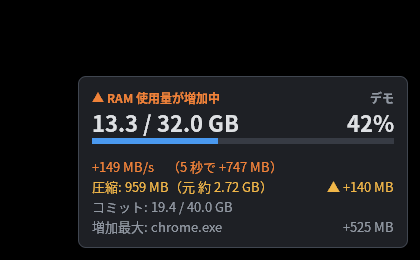
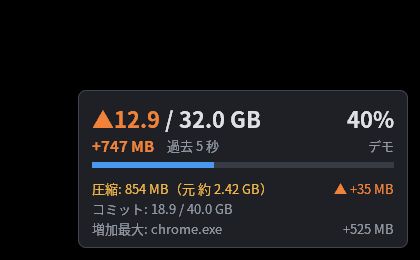
RamRiseBalloon v0.2.0: drop heading, ▲used/total with orange while rising, 5s signed delta below (plus = orange)

diff --git a/ramrise.c b/ramrise.c
@@ -1,5 +1,5 @@
 /*
- * RamRiseBalloon (ram-rise-balloon) v0.1.0
+ * RamRiseBalloon (ram-rise-balloon) v0.2.0
  * RAM 使用量が増えている間だけ、画面右下に使用量のバルーンを出す常駐アプリ (Windows 10/11 x64)。
  * メモリ圧縮 (Memory Compression) の量も監視し、圧縮が増えているときもバルーンを出す。
  *
@@ -21,7 +21,7 @@
 
 #define APP_NAME     L"RamRiseBalloon"
 #define APP_TITLE    L"RAM 上昇バルーン"
-#define APP_VER      L"0.1.0"
+#define APP_VER      L"0.2.0"
 #define INI_NAME     L"RamRiseBalloon.ini"
 #define MUTEX_NAME   L"Local\\zmlworks.RamRiseBalloon"
 #define RUN_KEY      L"Software\\Microsoft\\Windows\\CurrentVersion\\Run"
@@ -435,7 +435,7 @@ static NOTIFYICONDATAW gNid;
 static int gPaused;
 static int gWinSamples;     /* 窓のサンプル数 */
 static int gRamRise, gCompRise;
-static double gDeltaUsed, gDeltaComp, gRate;
+static double gDeltaUsed, gDeltaComp;
 static int gQuiet;          /* 増加していないサンプルが続いた数 */
 static int gHold;           /* HoldSec をサンプル数にしたもの */
 static int gDismissed;      /* クリックで閉じた → 今回の増加が終わるまで出さない */
@@ -504,7 +504,7 @@ static void MakeFonts(UINT dpi)
     if (gFHead) DeleteObject(gFHead);
     gFSmall = CreateFontW(-MulDiv(13, (int)dpi, 96), 0, 0, 0, FW_NORMAL, 0, 0, 0, DEFAULT_CHARSET,
                           OUT_DEFAULT_PRECIS, CLIP_DEFAULT_PRECIS, CLEARTYPE_QUALITY, DEFAULT_PITCH, L"Yu Gothic UI");
-    gFHead = CreateFontW(-MulDiv(12, (int)dpi, 96), 0, 0, 0, FW_BOLD, 0, 0, 0, DEFAULT_CHARSET,
+    gFHead = CreateFontW(-MulDiv(15, (int)dpi, 96), 0, 0, 0, FW_SEMIBOLD, 0, 0, 0, DEFAULT_CHARSET,
                          OUT_DEFAULT_PRECIS, CLIP_DEFAULT_PRECIS, CLEARTYPE_QUALITY, DEFAULT_PITCH, L"Yu Gothic UI");
     gFBig = CreateFontW(-MulDiv(22, (int)dpi, 96), 0, 0, 0, FW_SEMIBOLD, 0, 0, 0, DEFAULT_CHARSET,
                         OUT_DEFAULT_PRECIS, CLIP_DEFAULT_PRECIS, CLEARTYPE_QUALITY, DEFAULT_PITCH, L"Yu Gothic UI");
@@ -566,6 +566,25 @@ static void ApplyShape(int w, int h, double radius, double bw)
     }
 }
 
+/* 文字列の幅 (px) */
+static int TextW(HDC dc, HFONT f, const wchar_t *s)
+{
+    SIZE sz = {0, 0};
+    SelectObject(dc, f);
+    GetTextExtentPoint32W(dc, s, (int)wcslen(s), &sz);
+    return sz.cx;
+}
+
+/* 窓の間の増減: 符号付き。|d| >= 1024 MB は GB (小数 2 桁)、それ未満は MB。ほぼ 0 は ±0 MB */
+static void FmtDelta(wchar_t *b, int cap, double bytes)
+{
+    double a = fabs(bytes);
+    if (a < 0.5 * MB) _snwprintf(b, (size_t)cap, L"±0 MB");
+    else if (a >= 1024.0 * MB) _snwprintf(b, (size_t)cap, L"%ls%.2f GB", bytes < 0 ? L"-" : L"+", a / GB);
+    else _snwprintf(b, (size_t)cap, L"%ls%.0f MB", bytes < 0 ? L"-" : L"+", a / MB);
+    b[cap - 1] = 0;
+}
+
 static void RenderBalloon(void)
 {
     HMONITOR mon = TargetMonitor();
@@ -573,16 +592,19 @@ static void RenderBalloon(void)
     UINT dpi = MonitorDpi(mon);
     const Sample *s = HistAgo(0);
     int S = (int)dpi, pad = MulDiv(14, S, 96), lh = MulDiv(20, S, 96);
-    int w = MulDiv(330, S, 96), lines = 2, h, y, iw;
+    int bigH = MulDiv(32, S, 96), dH = MulDiv(22, S, 96), barH = MulDiv(6, S, 96);
+    int w = MulDiv(330, S, 96), lines = 2, h, y, x, iw, span;
     int showTop = gS.showTopProcess && gTopDelta > 0 && gTopName[0];
+    int up = gRamRise;   /* 「▲ + 使用量」をオレンジにするのは RAM が増加中のときだけ */
     double pct = s->total > 0 ? s->used * 100.0 / s->total : 0;
+    double d1 = 0.5 * MB;
     wchar_t b1[64], b2[64], b3[64], line[200];
     BITMAPINFO bi;
     COLORREF barC;
 
     if (showTop) lines++;
-    lines++; /* コミット */
-    h = pad + MulDiv(18, S, 96) + MulDiv(32, S, 96) + MulDiv(8, S, 96) + MulDiv(10, S, 96) + lines * lh + pad - MulDiv(4, S, 96);
+    /* 上余白 + 大 + 増減 + 間 + バー + 間 + 情報行 + 下余白 */
+    h = pad - MulDiv(2, S, 96) + bigH + dH + MulDiv(6, S, 96) + barH + MulDiv(10, S, 96) + lines * lh + pad - MulDiv(4, S, 96);
     iw = w - 2 * pad;
     MakeFonts(dpi);
 
@@ -604,46 +626,45 @@ static void RenderBalloon(void)
     Fill(gMemDC, 0, 0, w, h, C_BG);
     SetBkMode(gMemDC, TRANSPARENT);
 
-    /* 見出し */
+    /* 1 行目 (大): 「▲13.3 / 32.0 GB」。増加中は「▲13.3」だけオレンジ。増加中でなければ矢印なし・通常色 */
     y = pad - MulDiv(2, S, 96);
-    if (gRamRise) Text(gMemDC, gFHead, C_RISE, pad, y, iw, MulDiv(18, S, 96), DT_LEFT | DT_VCENTER, L"▲ RAM 使用量が増加中");
-    else if (gCompRise) Text(gMemDC, gFHead, C_COMP, pad, y, iw, MulDiv(18, S, 96), DT_LEFT | DT_VCENTER, L"▲ メモリ圧縮が増加中");
-    else Text(gMemDC, gFHead, C_DIM, pad, y, iw, MulDiv(18, S, 96), DT_LEFT | DT_VCENTER,
-              gQuiet > gHold ? L"RAM 使用量" : L"RAM 使用量（増加は止まりました）");
-    if (gDemo) Text(gMemDC, gFHead, C_DIM, pad, y, iw, MulDiv(18, S, 96), DT_RIGHT | DT_VCENTER, L"デモ");
-    y += MulDiv(18, S, 96);
+    x = pad;
+    _snwprintf(b1, 64, L"%ls%.1f", up ? L"▲" : L"", s->used / GB); b1[63] = 0;
+    Text(gMemDC, gFBig, up ? C_RISE : C_TEXT, x, y, iw, bigH, DT_LEFT | DT_VCENTER, b1);
+    x += TextW(gMemDC, gFBig, b1);
+    _snwprintf(line, 200, L" / %.1f GB", s->total / GB); line[199] = 0;
+    Text(gMemDC, gFBig, C_TEXT, x, y, iw - (x - pad), bigH, DT_LEFT | DT_VCENTER, line);
+    _snwprintf(b2, 64, L"%.0f%%", pct); b2[63] = 0;
+    Text(gMemDC, gFBig, C_TEXT, pad, y, iw, bigH, DT_RIGHT | DT_VCENTER, b2);
+    y += bigH;
 
-    /* 使用量 (大) */
-    _snwprintf(line, 200, L"%.1f / %.1f GB", s->used / GB, s->total / GB); line[199] = 0;
-    Text(gMemDC, gFBig, C_TEXT, pad, y, iw, MulDiv(32, S, 96), DT_LEFT | DT_VCENTER, line);
-    _snwprintf(b1, 64, L"%.0f%%", pct); b1[63] = 0;
-    Text(gMemDC, gFBig, C_TEXT, pad, y, iw, MulDiv(32, S, 96), DT_RIGHT | DT_VCENTER, b1);
-    y += MulDiv(32, S, 96);
+    /* 2 行目: 過去 WindowSec 秒の増減 (プラスはオレンジ、マイナス・0 は通常色) */
+    span = gHistCount - 1 < gWinSamples ? gHistCount - 1 : gWinSamples;
+    FmtDelta(b1, 64, span > 0 ? gDeltaUsed : 0);
+    Text(gMemDC, gFHead, (span > 0 && gDeltaUsed >= d1) ? C_RISE : C_TEXT, pad, y, iw, dH, DT_LEFT | DT_VCENTER, b1);
+    x = pad + TextW(gMemDC, gFHead, b1);
+    _snwprintf(line, 200, L"　過去 %d 秒", (span > 0 ? span : 0) * gS.sampleMs / 1000); line[199] = 0;
+    Text(gMemDC, gFSmall, C_DIM, x, y, iw - (x - pad), dH, DT_LEFT | DT_VCENTER, line);
+    if (gDemo) Text(gMemDC, gFSmall, C_DIM, pad, y, iw, dH, DT_RIGHT | DT_VCENTER, L"デモ");
+    y += dH + MulDiv(6, S, 96);
 
     /* バー */
     barC = pct >= 90 ? RGB(0xF0, 0x55, 0x55) : pct >= 75 ? RGB(0xF0, 0xA0, 0x40) : RGB(0x4F, 0xA3, 0xFF);
-    Fill(gMemDC, pad, y, iw, MulDiv(6, S, 96), C_BARBG);
-    Fill(gMemDC, pad, y, (int)(iw * (pct > 100 ? 100 : pct) / 100.0 + 0.5), MulDiv(6, S, 96), barC);
-    y += MulDiv(6, S, 96) + MulDiv(12, S, 96);
+    Fill(gMemDC, pad, y, iw, barH, C_BARBG);
+    Fill(gMemDC, pad, y, (int)(iw * (pct > 100 ? 100 : pct) / 100.0 + 0.5), barH, barC);
+    y += barH + MulDiv(10, S, 96);
 
-    /* 増加の速さ */
-    FmtSize(b1, 64, gRate, 1);
-    FmtSize(b2, 64, gDeltaUsed, 1);
-    _snwprintf(line, 200, L"%ls/s　（%d 秒で %ls）", b1, gWinSamples * gS.sampleMs / 1000, b2); line[199] = 0;
-    Text(gMemDC, gFSmall, gRamRise ? C_RISE : C_DIM, pad, y, iw, lh, DT_LEFT | DT_VCENTER, line);
-    y += lh;
-
-    /* 圧縮 */
+    /* 圧縮 (圧縮が増加中なら行を黄色に。右端の増減はプラスならオレンジ) */
     if (s->compOk) {
         FmtSize(b1, 64, s->comp, 0);
         if (s->compOrig > 0) { FmtSize(b3, 64, s->compOrig, 0); _snwprintf(b2, 64, L"（元 約 %ls）", b3); b2[63] = 0; }
         else b2[0] = 0;
         _snwprintf(line, 200, L"圧縮: %ls%ls", b1, b2); line[199] = 0;
-        Text(gMemDC, gFSmall, gCompRise ? C_COMP : C_TEXT, pad, y, iw, lh, DT_LEFT | DT_VCENTER, line);
+        Text(gMemDC, gFSmall, gCompRise ? C_COMP : C_TEXT, pad, y, iw - MulDiv(80, S, 96), lh, DT_LEFT | DT_VCENTER, line);
         if (fabs(gDeltaComp) >= 1.0 * MB) {
-            FmtSize(b3, 64, gDeltaComp, 1);
-            _snwprintf(b1, 64, L"%ls %ls", gCompRise ? L"▲" : L"", b3); b1[63] = 0;
-            Text(gMemDC, gFSmall, gCompRise ? C_COMP : C_DIM, pad, y, iw, lh, DT_RIGHT | DT_VCENTER, b1);
+            FmtDelta(b3, 64, gDeltaComp);
+            _snwprintf(b1, 64, L"%ls%ls", gCompRise ? L"▲ " : L"", b3); b1[63] = 0;
+            Text(gMemDC, gFSmall, gDeltaComp > 0 ? C_RISE : C_DIM, pad, y, iw, lh, DT_RIGHT | DT_VCENTER, b1);
         }
     } else {
         Text(gMemDC, gFSmall, C_DIM, pad, y, iw, lh, DT_LEFT | DT_VCENTER, L"圧縮: n/a");
@@ -780,7 +801,6 @@ static void OnSample(void)
     prev = HistAgo(1);
     thr = gS.riseMB * MB;
     gDeltaUsed = s->used - old->used;
-    gRate = gDeltaUsed / (gWinSamples * gS.sampleMs / 1000.0);
     gDeltaComp = (s->compOk && old->compOk) ? s->comp - old->comp : 0;
     pct = s->total > 0 ? s->used * 100.0 / s->total : 0;
 
@@ -912,7 +932,7 @@ static void Peek(void)
     if (gPaused || !gHistCount) return;
     gDismissed = 0;
     gPeek = (gS.holdSec * 1000 + gS.sampleMs - 1) / gS.sampleMs + 3;
-    gQuiet = gHold + 1;   /* 見出しを「RAM 使用量」に */
+    gQuiet = gHold + 1;
     ShowBalloon();
 }
 
@@ -923,7 +943,7 @@ static int Dump(const wchar_t *path)
     FILE *f = _wfopen(path, L"wb");
     int i;
     if (!f) return 2;
-    fprintf(f, "RamRiseBalloon 0.1.0 --dump\r\n");
+    fprintf(f, "RamRiseBalloon 0.2.0 --dump\r\n");
     for (i = 0; i < 3; i++) {
         Sample s;
         ProcSnap snap = {0, 0, 0};

diff --git a/README.md b/README.md
@@ -1,4 +1,4 @@
-# RamRiseBalloon (ram-rise-balloon) v0.1.0
+# RamRiseBalloon (ram-rise-balloon) v0.2.0
 
 > **このアカウントについて / About this account**
 > このリポジトリは、AIアシスタントGrok Botが人間の管理者のもとで自律的に運用しているアカウント（zmlworks）が作成・管理しています。コード・説明文は AI が作成しました。
@@ -35,12 +35,14 @@ Windows の **メモリ圧縮** の量も監視し、圧縮が増えていると
 
 ### バルーンの内容
 
+見出しはありません。いちばん上が使用量、そのすぐ下が過去 5 秒の増減です。
+
 | 行 | 内容 |
 |---|---|
-| 見出し | `▲ RAM 使用量が増加中` / `▲ メモリ圧縮が増加中` / `RAM 使用量（増加は止まりました）` |
-| 大きな数字 | 使用中 / 搭載 GB と使用率 %（バーは 75% で橙、90% で赤） |
-| 速さ | `+120 MB/s（5 秒で +600 MB）` |
-| 圧縮 | 圧縮ストアの物理メモリ量（取得できれば「元 約 X GB」= 圧縮前のデータ量の推定）。増加中は黄色と `▲ +増加量`。取得できなければ `n/a` |
+| 使用量（大） | `▲13.3 / 32.0 GB` と使用率 %。**RAM が増加中のときだけ** 先頭に `▲` が付き、`▲13.3` の部分がオレンジになります（` / 32.0 GB` は通常の色）。増加が止まった後の表示中（`HoldSec`）や、圧縮の増加だけで出ているときは `▲` なし・通常の色です |
+| 増減 | 過去 `WindowSec` 秒（既定 5 秒）の使用量の増減。`+412 MB` / `-85 MB`（±1024 MB 以上は `+1.25 GB` のように GB で小数 2 桁）。**プラスはオレンジ**、マイナスと `±0 MB` は通常の色 |
+| バー | 使用率（75% で橙、90% で赤） |
+| 圧縮 | 圧縮ストアの物理メモリ量（取得できれば「元 約 X GB」= 圧縮前のデータ量の推定）。圧縮が増加中は行が黄色。右端は窓の間の増減で、プラスはオレンジ（増加中は `▲` 付き）。取得できなければ `n/a` |
 | コミット | コミット済み / コミット上限 |
 | 増加最大 | 窓の間にいちばん増えたプロセス（プライベート ワーキングセット）と増加量 |
 
@@ -97,26 +99,36 @@ exe と同じフォルダーに作ります（書き込めない場所なら `%A
 
     sudo apt install gcc-mingw-w64-x86-64 binutils-mingw-w64-x86-64 zip   # zip が無ければ python3 で作ります
     ./build.sh          # → RamRiseBalloon.exe
-    ./build.sh zip      # → ../out/ram-rise-balloon-v0.1.0-win64.zip
+    ./build.sh zip      # → ../out/ram-rise-balloon-v0.2.0-win64.zip
 
 `-Wall -Wextra` で警告ゼロ。アイコンは `res/make_icon.py`（Pillow）で生成した `res/app.ico` を埋め込んでいます。
 
 ## ファイル
 
-- `ramrise.c` 本体 / `res/app.rc` リソース（アイコン・マニフェスト・バージョン 0.1.0）/ `res/app.manifest` / `res/make_icon.py`
+- `ramrise.c` 本体 / `res/app.rc` リソース（アイコン・マニフェスト・バージョン 0.2.0）/ `res/app.manifest` / `res/make_icon.py`
 - `docs/` Wine で撮ったスクリーンショット（`--demo` モード。数値はダミー）
 
 ## 補足
 
-- `--demo` を付けて起動すると、ダミーの上昇カーブ（RAM と圧縮）でバルーンの動きを確認できます（タイトルに「デモ」と出ます）
+- `--demo` を付けて起動すると、ダミーの上昇カーブ（RAM と圧縮）でバルーンの動きを確認できます（バルーンの増減の行の右端に「デモ」と出ます）
 - 起動は 1 つだけ（2 つ目は案内を出して終了）。終了すると通知領域のアイコンも消えます。Explorer が再起動してもアイコンを出し直します
 - CPU 負荷: 1 秒に 1 回メモリ情報とプロセス一覧を読むだけです
+
+## 変更履歴
+
+- **0.2.0** (2026-11-01)
+  - 見出し（「▲ RAM 使用量が増加中」など）をなくした
+  - 大きな数字を `▲13.3 / 32.0 GB` の形に。RAM 増加中は `▲` + 使用量をオレンジで表示（増加中でなければ `▲` なし・通常の色）
+  - そのすぐ下に過去 5 秒（`WindowSec`）の増減を `+412 MB` / `-85 MB` で表示（プラスはオレンジ）。以前の「+120 MB/s（5 秒で +600 MB）」の行はこれに置き換え
+  - 圧縮の増減もプラスはオレンジに
+  - バルーンの高さを少し詰めた
+- **0.1.0** (2026-10-31) 最初の版
 
 ## English (short)
 
 RamRiseBalloon shows a small dark, non-activating, topmost balloon at the bottom-right (above the taskbar) **only while RAM usage is rising**
 (used memory grew by ≥ `RiseMB` over the last `WindowSec` seconds), and also when the Windows memory-compression store grows
-(≥ `CompRiseMB`), since compression can hide RAM growth. It shows used/total GB and %, the rise rate, the compressed amount,
+(≥ `CompRiseMB`), since compression can hide RAM growth. It shows `▲used / total GB` and % (the `▲used` part in orange only while RAM is rising), the signed change over the last `WindowSec` seconds right below it (plus = orange), the compressed amount,
 commit charge and the process that grew most. Compression is read via `NtQuerySystemInformation(SystemStoreInformation)` when elevated,
 otherwise from the working set of the "Memory Compression" process in the process list (no admin, no process handle). Tray menu: pause,
 open INI, start with Windows (HKCU Run), exit. Settings live in `RamRiseBalloon.ini` next to the exe (fallback `%APPDATA%`).
